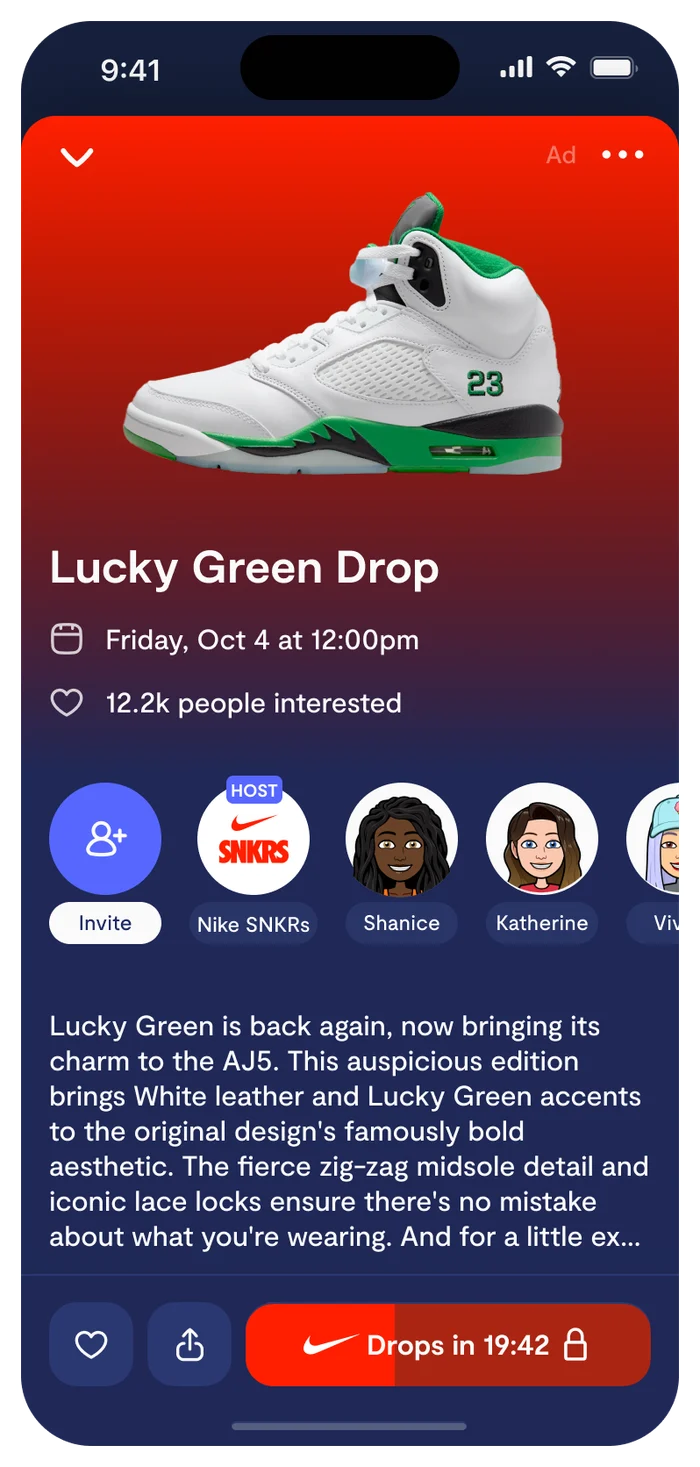
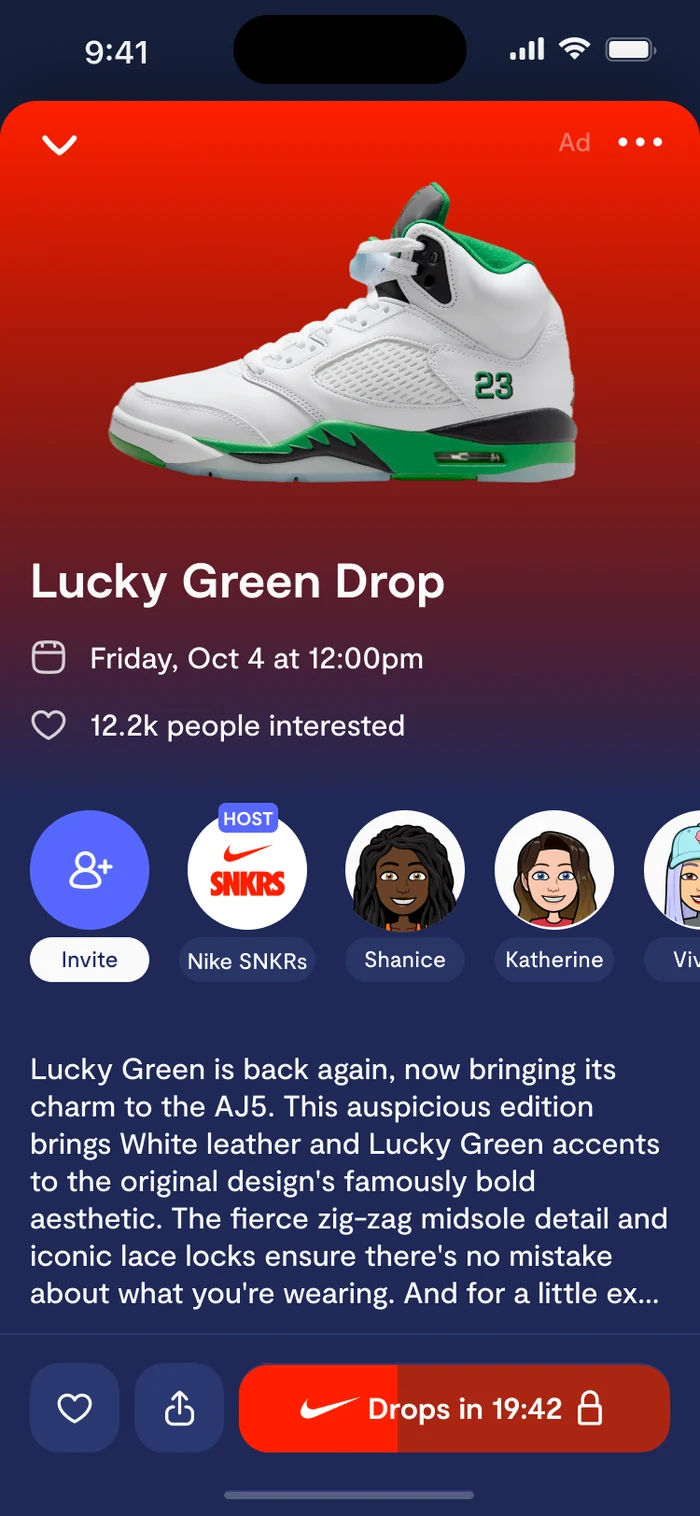
Replace Nike Lucky Green event screen (hero + Saturn gallery) with clean square-cornered export
Claude-Session: https://claude.ai/code/session_01QavLVTC1oKk7691DCPask6

diff --git a/site/screenshots/saturn/index.html b/site/screenshots/saturn/index.html
@@ -49,7 +49,7 @@
       <div class="l3-grid l3-grid--m"><figure class="l3-fig"><div class="l3-frame l3-frame--m" style="--fill:#009e62"><div class="l3-view"><img src="../../assets/galleries/saturn/042.webp" alt="Digest - Did You See These?" loading="lazy" width="700" height="1516"></div></div><figcaption><strong>Digest - Did You See These?</strong><span>Story-style digest card surfacing an event with View/Add.</span></figcaption></figure><figure class="l3-fig"><div class="l3-frame l3-frame--m" style="--fill:#830e2c"><div class="l3-view"><img src="../../assets/galleries/saturn/043.webp" alt="Digest - School Mood" loading="lazy" width="700" height="1516"></div></div><figcaption><strong>Digest - School Mood</strong><span>&quot;Biggest mood at school is Tired&quot; with top moods for the school.</span></figcaption></figure><figure class="l3-fig"><div class="l3-frame l3-frame--m" style="--fill:#581cd7"><div class="l3-view"><img src="../../assets/galleries/saturn/044.webp" alt="Digest - Share Your Mood" loading="lazy" width="700" height="1516"></div></div><figcaption><strong>Digest - Share Your Mood</strong><span>Personal mood card with Bitmoji, shareable.</span></figcaption></figure><figure class="l3-fig"><div class="l3-frame l3-frame--m" style="--fill:#591ed8"><div class="l3-view"><img src="../../assets/galleries/saturn/045.webp" alt="Digest - Mood Check-In" loading="lazy" width="700" height="1516"></div></div><figcaption><strong>Digest - Mood Check-In</strong><span>&quot;How do you feel about your day?&quot; emoji grid that feeds the school mood.</span></figcaption></figure><figure class="l3-fig"><div class="l3-frame l3-frame--m" style="--fill:#e67a63"><div class="l3-view"><img src="../../assets/galleries/saturn/046.webp" alt="Digest - 6AM Club" loading="lazy" width="700" height="1516"></div></div><figcaption><strong>Digest - 6AM Club</strong><span>Badge for early risers plus today&#x27;s other members.</span></figcaption></figure><figure class="l3-fig"><div class="l3-frame l3-frame--m" style="--fill:#bd8924"><div class="l3-view"><img src="../../assets/galleries/saturn/047.webp" alt="Digest - Today Is" loading="lazy" width="700" height="1516"></div></div><figcaption><strong>Digest - Today Is</strong><span>Date card with a fun holiday (National Pasta Day).</span></figcaption></figure><figure class="l3-fig"><div class="l3-frame l3-frame--m" style="--fill:#96bfd8"><div class="l3-view"><img src="../../assets/galleries/saturn/048.webp" alt="Digest - Forecast" loading="lazy" width="700" height="1516"></div></div><figcaption><strong>Digest - Forecast</strong><span>Weather card with Bitmoji.</span></figcaption></figure></div></section><section class="l3-sec"><div class="l3-label"><h2>Now Tab &amp; Spotify</h2><span>4 screens</span></div>
       <div class="l3-grid l3-grid--m"><figure class="l3-fig"><div class="l3-frame l3-frame--m is-alpha"><div class="l3-view"><img src="../../assets/galleries/saturn/040.webp" alt="Spotify Daylist in Calendar Header" loading="lazy" width="700" height="1467"></div></div><figcaption><strong>Spotify Daylist in Calendar Header</strong><span>The Spotify daylist name (&quot;rage angelic monday morning&quot;) shown as the day&#x27;s header.</span></figcaption></figure><figure class="l3-fig"><div class="l3-frame l3-frame--m is-alpha"><div class="l3-view"><img src="../../assets/galleries/saturn/041.webp" alt="Now Tab with School Playlist" loading="lazy" width="700" height="1467"></div></div><figcaption><strong>Now Tab with School Playlist</strong><span>School playlist bubble and friend statuses above the current class countdown and today.</span></figcaption></figure><figure class="l3-fig"><div class="l3-frame l3-frame--m" style="--fill:#000000"><div class="l3-view"><img src="../../assets/galleries/saturn/053.webp" alt="Now Tab 2024" loading="lazy" width="700" height="1516"></div></div><figcaption><strong>Now Tab 2024</strong><span>Friend status row, current class card with progress, calendar and task completion.</span></figcaption></figure><figure class="l3-fig"><div class="l3-frame l3-frame--m" style="--fill:#000000"><div class="l3-view"><img src="../../assets/galleries/saturn/058.webp" alt="Now Tab - Full School Day" loading="lazy" width="700" height="3888"></div></div><figcaption><strong>Now Tab - Full School Day</strong><span>Class countdown ring, B-Day, class chat and new task, Later/Today widgets, bulletin, tasks and options.</span></figcaption></figure></div></section><section class="l3-sec"><div class="l3-label"><h2>Superlatives</h2><span>3 screens</span></div>
       <div class="l3-grid l3-grid--m"><figure class="l3-fig"><div class="l3-frame l3-frame--m is-alpha"><div class="l3-view"><img src="../../assets/galleries/saturn/001.webp" alt="Superlatives - Shareable Winner Card" loading="lazy" width="700" height="1376"></div></div><figcaption><strong>Superlatives - Shareable Winner Card</strong><span>Daily superlative result card (&quot;Most likely to sleep through an earthquake&quot;) built to post to Snap, IG or Messages.</span></figcaption></figure><figure class="l3-fig"><div class="l3-frame l3-frame--m" style="--fill:#ffffff"><div class="l3-view"><img src="../../assets/galleries/saturn/002.webp" alt="Superlatives - Final Podium and Leaderboard" loading="lazy" width="700" height="2684"></div></div><figcaption><strong>Superlatives - Final Podium and Leaderboard</strong><span>Top-3 podium, ranks 4-10, and a winners carousel by grade.</span></figcaption></figure><figure class="l3-fig"><div class="l3-frame l3-frame--m" style="--fill:#ffffff"><div class="l3-view"><img src="../../assets/galleries/saturn/003.webp" alt="Superlatives - Vote" loading="lazy" width="700" height="1516"></div></div><figcaption><strong>Superlatives - Vote</strong><span>Prompt, opt-in to be nominated, and suggested classmates with Vote, Shuffle and Search.</span></figcaption></figure></div></section><section class="l3-sec"><div class="l3-label"><h2>Explore &amp; Brand Partnerships</h2><span>12 screens</span></div>
-      <div class="l3-grid l3-grid--m"><figure class="l3-fig"><div class="l3-frame l3-frame--m" style="--fill:#191e5f"><div class="l3-view"><img src="../../assets/galleries/saturn/007.webp" alt="Explore - Spotify Tour Dates" loading="lazy" width="700" height="1516"></div></div><figcaption><strong>Explore - Spotify Tour Dates</strong><span>Concerts filtered by Spotify listening, showing which friends are interested.</span></figcaption></figure><figure class="l3-fig"><div class="l3-frame l3-frame--m is-alpha"><div class="l3-view"><img src="../../assets/galleries/saturn/005.webp" alt="Nike Sponsored Team - Drop Access" loading="lazy" width="700" height="1467"></div></div><figcaption><strong>Nike Sponsored Team - Drop Access</strong><span>Nike-sponsored private group showing This Week in SNKRS with a timed early-access drop.</span></figcaption></figure><figure class="l3-fig"><div class="l3-frame l3-frame--m is-alpha"><div class="l3-view"><img src="../../assets/galleries/saturn/006.webp" alt="Nike Sponsored Team - Exclusive Sale" loading="lazy" width="700" height="1467"></div></div><figcaption><strong>Nike Sponsored Team - Exclusive Sale</strong><span>Sponsored group variant leading with a 30% off Mercurial event and Nike-tagged upcoming events.</span></figcaption></figure><figure class="l3-fig"><div class="l3-frame l3-frame--m" style="--fill:#262634"><div class="l3-view"><img src="../../assets/galleries/saturn/049.webp" alt="Nike Drops Calendar" loading="lazy" width="700" height="1516"></div></div><figcaption><strong>Nike Drops Calendar</strong><span>Explore &gt; Nike drops as a month grid of sneakers with today&#x27;s drop and an access countdown.</span></figcaption></figure><figure class="l3-fig"><div class="l3-frame l3-frame--m is-alpha"><div class="l3-view"><img src="../../assets/galleries/saturn/050.webp" alt="Nike Drop on Home and Calendar" loading="lazy" width="700" height="1467"></div></div><figcaption><strong>Nike Drop on Home and Calendar</strong><span>Drop banner on home plus a pinned SNKRS card in the calendar.</span></figcaption></figure><figure class="l3-fig"><div class="l3-frame l3-frame--m" style="--fill:#000000"><div class="l3-view"><img src="../../assets/galleries/saturn/051.webp" alt="Nike Drop Block on Calendar" loading="lazy" width="700" height="1516"></div></div><figcaption><strong>Nike Drop Block on Calendar</strong><span>Drop rendered as a red Nike block in the timeline.</span></figcaption></figure><figure class="l3-fig"><div class="l3-frame l3-frame--m is-bordered is-alpha"><div class="l3-view"><img src="../../assets/galleries/saturn/052.webp" alt="Nike SNKRS Sponsored Event" loading="lazy" width="700" height="1467"></div></div><figcaption><strong>Nike SNKRS Sponsored Event</strong><span>Sponsored drop event: 12.2k interested, Nike host, locked CTA until the drop.</span></figcaption></figure><figure class="l3-fig"><div class="l3-frame l3-frame--m is-alpha"><div class="l3-view"><img src="../../assets/galleries/saturn/054.webp" alt="Nike - Submit Your Team" loading="lazy" width="700" height="1467"></div></div><figcaption><strong>Nike - Submit Your Team</strong><span>Pick sport and clothing preference, then invite; first 1000 teams.</span></figcaption></figure><figure class="l3-fig"><div class="l3-frame l3-frame--m is-alpha"><div class="l3-view"><img src="../../assets/galleries/saturn/055.webp" alt="Nike Promo in Calendar" loading="lazy" width="700" height="1467"></div></div><figcaption><strong>Nike Promo in Calendar</strong><span>In-feed card &quot;Become a Nike Sponsored Team&quot; placed in the calendar.</span></figcaption></figure><figure class="l3-fig"><div class="l3-frame l3-frame--m is-bordered is-alpha"><div class="l3-view"><img src="../../assets/galleries/saturn/057.webp" alt="McDonald&#x27;s FryDay Sponsored Event" loading="lazy" width="700" height="1467"></div></div><figcaption><strong>McDonald&#x27;s FryDay Sponsored Event</strong><span>Sponsored event with discount code CTA.</span></figcaption></figure><figure class="l3-fig"><div class="l3-frame l3-frame--m" style="--fill:#202857"><div class="l3-view"><img src="../../assets/galleries/saturn/062.webp" alt="Nike - Create Your Team" loading="lazy" width="700" height="1516"></div></div><figcaption><strong>Nike - Create Your Team</strong><span>Variant of the team submission sheet.</span></figcaption></figure><figure class="l3-fig"><div class="l3-frame l3-frame--m" style="--fill:#6bffb6"><div class="l3-view"><img src="../../assets/galleries/saturn/063.webp" alt="Nike Promo Card - Get Sponsored" loading="lazy" width="700" height="1516"></div></div><figcaption><strong>Nike Promo Card - Get Sponsored</strong><span>Variant of the calendar promo card.</span></figcaption></figure></div></section><section class="l3-sec"><div class="l3-label"><h2>In Context</h2><span>3 images</span></div>
+      <div class="l3-grid l3-grid--m"><figure class="l3-fig"><div class="l3-frame l3-frame--m" style="--fill:#191e5f"><div class="l3-view"><img src="../../assets/galleries/saturn/007.webp" alt="Explore - Spotify Tour Dates" loading="lazy" width="700" height="1516"></div></div><figcaption><strong>Explore - Spotify Tour Dates</strong><span>Concerts filtered by Spotify listening, showing which friends are interested.</span></figcaption></figure><figure class="l3-fig"><div class="l3-frame l3-frame--m is-alpha"><div class="l3-view"><img src="../../assets/galleries/saturn/005.webp" alt="Nike Sponsored Team - Drop Access" loading="lazy" width="700" height="1467"></div></div><figcaption><strong>Nike Sponsored Team - Drop Access</strong><span>Nike-sponsored private group showing This Week in SNKRS with a timed early-access drop.</span></figcaption></figure><figure class="l3-fig"><div class="l3-frame l3-frame--m is-alpha"><div class="l3-view"><img src="../../assets/galleries/saturn/006.webp" alt="Nike Sponsored Team - Exclusive Sale" loading="lazy" width="700" height="1467"></div></div><figcaption><strong>Nike Sponsored Team - Exclusive Sale</strong><span>Sponsored group variant leading with a 30% off Mercurial event and Nike-tagged upcoming events.</span></figcaption></figure><figure class="l3-fig"><div class="l3-frame l3-frame--m" style="--fill:#262634"><div class="l3-view"><img src="../../assets/galleries/saturn/049.webp" alt="Nike Drops Calendar" loading="lazy" width="700" height="1516"></div></div><figcaption><strong>Nike Drops Calendar</strong><span>Explore &gt; Nike drops as a month grid of sneakers with today&#x27;s drop and an access countdown.</span></figcaption></figure><figure class="l3-fig"><div class="l3-frame l3-frame--m is-alpha"><div class="l3-view"><img src="../../assets/galleries/saturn/050.webp" alt="Nike Drop on Home and Calendar" loading="lazy" width="700" height="1467"></div></div><figcaption><strong>Nike Drop on Home and Calendar</strong><span>Drop banner on home plus a pinned SNKRS card in the calendar.</span></figcaption></figure><figure class="l3-fig"><div class="l3-frame l3-frame--m" style="--fill:#000000"><div class="l3-view"><img src="../../assets/galleries/saturn/051.webp" alt="Nike Drop Block on Calendar" loading="lazy" width="700" height="1516"></div></div><figcaption><strong>Nike Drop Block on Calendar</strong><span>Drop rendered as a red Nike block in the timeline.</span></figcaption></figure><figure class="l3-fig"><div class="l3-frame l3-frame--m" style="--fill:#202857"><div class="l3-view"><img src="../../assets/galleries/saturn/052.webp" alt="Nike SNKRS Sponsored Event" loading="lazy" width="700" height="1516"></div></div><figcaption><strong>Nike SNKRS Sponsored Event</strong><span>Sponsored drop event: 12.2k interested, Nike host, locked CTA until the drop.</span></figcaption></figure><figure class="l3-fig"><div class="l3-frame l3-frame--m is-alpha"><div class="l3-view"><img src="../../assets/galleries/saturn/054.webp" alt="Nike - Submit Your Team" loading="lazy" width="700" height="1467"></div></div><figcaption><strong>Nike - Submit Your Team</strong><span>Pick sport and clothing preference, then invite; first 1000 teams.</span></figcaption></figure><figure class="l3-fig"><div class="l3-frame l3-frame--m is-alpha"><div class="l3-view"><img src="../../assets/galleries/saturn/055.webp" alt="Nike Promo in Calendar" loading="lazy" width="700" height="1467"></div></div><figcaption><strong>Nike Promo in Calendar</strong><span>In-feed card &quot;Become a Nike Sponsored Team&quot; placed in the calendar.</span></figcaption></figure><figure class="l3-fig"><div class="l3-frame l3-frame--m is-bordered is-alpha"><div class="l3-view"><img src="../../assets/galleries/saturn/057.webp" alt="McDonald&#x27;s FryDay Sponsored Event" loading="lazy" width="700" height="1467"></div></div><figcaption><strong>McDonald&#x27;s FryDay Sponsored Event</strong><span>Sponsored event with discount code CTA.</span></figcaption></figure><figure class="l3-fig"><div class="l3-frame l3-frame--m" style="--fill:#202857"><div class="l3-view"><img src="../../assets/galleries/saturn/062.webp" alt="Nike - Create Your Team" loading="lazy" width="700" height="1516"></div></div><figcaption><strong>Nike - Create Your Team</strong><span>Variant of the team submission sheet.</span></figcaption></figure><figure class="l3-fig"><div class="l3-frame l3-frame--m" style="--fill:#6bffb6"><div class="l3-view"><img src="../../assets/galleries/saturn/063.webp" alt="Nike Promo Card - Get Sponsored" loading="lazy" width="700" height="1516"></div></div><figcaption><strong>Nike Promo Card - Get Sponsored</strong><span>Variant of the calendar promo card.</span></figcaption></figure></div></section><section class="l3-sec"><div class="l3-label"><h2>In Context</h2><span>3 images</span></div>
       <div class="l3-grid l3-grid--o"><figure class="l3-fig"><div class="l3-frame l3-frame--o"><img src="../../assets/galleries/saturn/027.webp" alt="Who&#x27;s Free - Send a Comment" loading="lazy" width="700" height="1516"></div><figcaption><strong>Who&#x27;s Free - Send a Comment</strong><span>Free friends for a selected slot, pick several, write one message.</span></figcaption></figure><figure class="l3-fig"><div class="l3-frame l3-frame--o"><img src="../../assets/galleries/saturn/038.webp" alt="Chilling in the Calendar" loading="lazy" width="700" height="1516"></div><figcaption><strong>Chilling in the Calendar</strong><span>Friend avatars plotted on the timeline to show overlaps.</span></figcaption></figure><figure class="l3-fig"><div class="l3-frame l3-frame--o is-alpha"><img src="../../assets/galleries/saturn/039.webp" alt="Compare with Nike Ad in Free Slot" loading="lazy" width="700" height="1467"></div><figcaption><strong>Compare with Nike Ad in Free Slot</strong><span>Side-by-side compare where the shared free slot carries a Nike Air Max Day placement.</span></figcaption></figure></div></section>
   </div>
   <svg class="l3-wave l3-wave--bot" viewBox="0 0 1728 124" preserveAspectRatio="none" aria-hidden="true"><path d="M0 64 C 300 6, 760 10, 1080 48 C 1360 82, 1580 84, 1728 58 L1728 124 L0 124 Z"/></svg>

diff --git a/gallery_data.py b/gallery_data.py
@@ -163,7 +163,7 @@ GROUPS = {
 IN_CONTEXT = {'trovy': '003 014 015', 'saturn': '027 038 039', 'honored': '008', 'kyn': '001', 'upclose': '001-010',
               'monster': '001-007', 'gigmo': '001-010', 'adecco': '012', 'candle': '001'}
 # images with a baked-in white border (cropped in the frame)
-BORDERED = {'saturn': _r('052 057')}
+BORDERED = {'saturn': _r('057')}
 
 def _seq(spec):
     out = []
